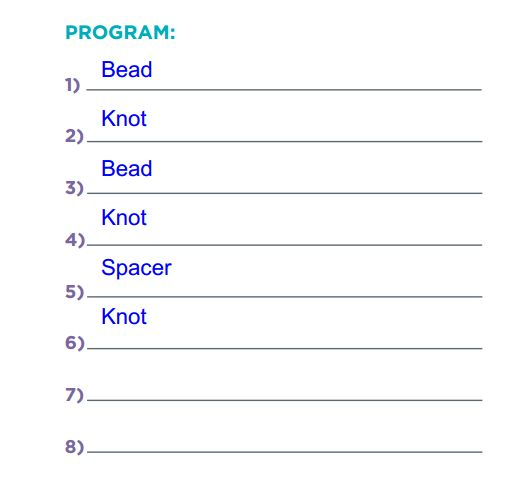
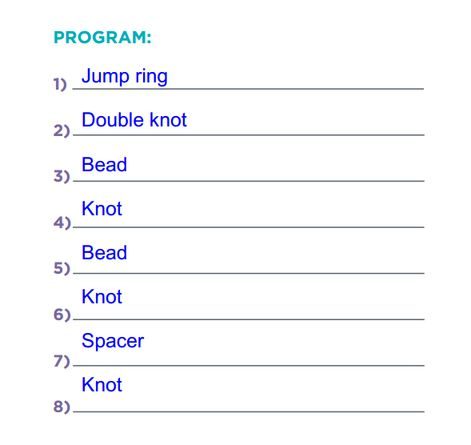
Redo algorithm for suncatcher. The original one is not workable.

diff --git a/code7_stage8.html b/code7_stage8.html
@@ -46,7 +46,7 @@
 <h2>Functions</h2>
 <h3>Gary Dalton</h3>
 <p>
-<h4>8 July 2015</h4>
+<h4>18 July 2015</h4>
 </p>
 
 <a href="https://github.com/gary-dalton/code7/tree/gh-pages">
@@ -57,7 +57,7 @@ Fork on GitHub
 
 <section id="functions" class="level1">
 <h1>Functions</h1>
-<p>Repetitive tasks can be stored in a small group that can be “called” several times, instead of wasting space with lots of copies of the same instruction.</p>
+<p>Repetitive tasks can be stored in a small group that can be &quot;called&quot; several times, instead of wasting space with lots of copies of the same instruction.</p>
 </section>
 <section id="section" class="level1">
 <h1></h1>
@@ -74,6 +74,7 @@ Fork on GitHub
 <section id="materials" class="level1">
 <h1>Materials</h1>
 <ul>
+<li>One jump ring</li>
 <li>One foot of string, thread, or fishing line per person</li>
 <li>2-4 beads per person</li>
 <li>2-4 other accessories (buttons, hoops, spacers) per person</li>
@@ -124,7 +125,16 @@ Fork on GitHub
 <section id="section-2" class="level2">
 <h2></h2>
 <p>In Stage 7, The Artist II, we drew repeating shapes using code blocks</p>
-<p><img src="images/stage8blocks.jpg" alt="" /><img src="images/stage8pattern.jpg" alt="" /></p>
+<table>
+<thead>
+<tr class="header">
+<th style="text-align: left;"><img src="images/stage8blocks.jpg" alt="" /></th>
+<th style="text-align: left;"><img src="images/stage8pattern.jpg" alt="" /></th>
+</tr>
+</thead>
+<tbody>
+</tbody>
+</table>
 </section>
 <section id="section-3" class="level2">
 <h2></h2>
@@ -139,21 +149,18 @@ Fork on GitHub
 <section id="how-did-i-make-this" class="level2">
 <h2>How did I make this?</h2>
 <ol type="1">
-<li>First, I put a bead on the string, then I tied a knot. I put another bead on a string, and tied another knot. Then, I put a spacer on the string and tied another knot.</li>
-<li>After that, I did it all again. I put a bead on the string, then I tied a knot. I put another bead on a string, and tied another knot. Then, I put a spacer on the string and tied another knot.</li>
-<li>Finally, I put on the special charm, and tied one last knot.</li>
+<li>I put the jump ring on the string and tied a double knot.</li>
+<li>I put a bead on the string and tied a knot.</li>
+<li>I put another bead on a string, and tied another knot.</li>
+<li>I put a spacer on the string and tied another knot.</li>
+<li>I repeated steps 2-4.</li>
+<li>Finally, I put on the special charm, and tied one last double knot.</li>
 </ol>
 </section>
 <section id="with-rhythm" class="level2">
 <h2>With rhythm</h2>
 <blockquote>
-<p>&quot;Bead, knot, bead, knot, spacer, knot.</p>
-</blockquote>
-<blockquote>
-<p>Bead, knot, bead, knot, spacer, knot.</p>
-</blockquote>
-<blockquote>
-<p>Special charm, final knot.&quot;</p>
+<p>&quot;Jump ring, double knot.<br /> Bead, knot, bead, knot, spacer, knot.<br /> Bead, knot, bead, knot, spacer, knot.<br /> Special charm, double knot.&quot;</p>
 </blockquote>
 </section>
 <section id="section-4" class="level2">
@@ -186,13 +193,7 @@ Fork on GitHub
 <h2></h2>
 <p>Try to fill in the skills and program to make a working example of the algorithm.</p>
 <blockquote>
-<p>&quot;Bead, knot, bead, knot, spacer, knot.</p>
-</blockquote>
-<blockquote>
-<p>Bead, knot, bead, knot, spacer, knot.</p>
-</blockquote>
-<blockquote>
-<p>Special charm, final knot.&quot;</p>
+<p>&quot;Jump ring, double knot.<br /> Bead, knot, bead, knot, spacer, knot.<br /> Bead, knot, bead, knot, spacer, knot.<br /> Special charm, double knot.&quot;</p>
 </blockquote>
 </section>
 <section id="ok-lets-make-those-suncatchers." class="level2">

diff --git a/code7_stage8.md b/code7_stage8.md
@@ -2,7 +2,7 @@
 title: Code7 - Stage 8
 subtitle: Functions
 author: Gary Dalton
-date: 8 July 2015
+date: 18 July 2015
 theme: beige
 transition: concave
 github:
@@ -15,7 +15,7 @@ pandoc: pandoc -t html5 --standalone --section-divs --template=templatecdn_revea
 
 # Functions
 
-Repetitive tasks can be stored in a small group that can be “called” several times, instead of wasting space with lots of copies of the same instruction.
+Repetitive tasks can be stored in a small group that can be "called" several times, instead of wasting space with lots of copies of the same instruction.
 
 #
 
@@ -28,6 +28,7 @@ Repetitive tasks can be stored in a small group that can be “called” several
 
 # Materials
 
+- One jump ring
 - One foot of string, thread, or fishing line per person
 - 2-4 beads per person
 - 2-4 other accessories (buttons, hoops, spacers) per person
@@ -75,7 +76,8 @@ A placeholder for a value that can change
 
 In Stage 7, The Artist II, we drew repeating shapes using code blocks
 
-![](images/stage8blocks.jpg)![](images/stage8pattern.jpg)
+| ![](images/stage8blocks.jpg) | ![](images/stage8pattern.jpg) |
+| ------------------ | ------------------ |
 
 ##
 
@@ -86,17 +88,19 @@ In Stage 7, The Artist II, we drew repeating shapes using code blocks
 
 ## How did I make this?
 
-1. First, I put a bead on the string, then I tied a knot. I put another bead on a string, and tied another knot. Then, I put a spacer on the string and tied another knot.
-2. After that, I did it all again. I put a bead on the string, then I tied a knot. I put another bead on a string, and tied another knot. Then, I put a spacer on the string and tied another knot.
-3. Finally, I put on the special charm, and tied one last knot.
+1. I put the jump ring on the string and tied a double knot.
+1. I put a bead on the string and tied a knot.
+1. I put another bead on a string, and tied another knot.
+1. I put a spacer on the string and tied another knot.
+1. I repeated steps 2-4.
+1. Finally, I put on the special charm, and tied one last  double knot.
 
 ## With rhythm
 
->"Bead, knot, bead, knot, spacer, knot.
-
->Bead, knot, bead, knot, spacer, knot.
-
->Special charm, final knot."
+>"Jump ring, double knot.<br />
+>Bead, knot, bead, knot, spacer, knot.<br />
+>Bead, knot, bead, knot, spacer, knot.<br />
+>Special charm, double knot."
 
 ##
 
@@ -122,11 +126,10 @@ In Stage 7, The Artist II, we drew repeating shapes using code blocks
 
 Try to fill in the skills and program to make a working example of the algorithm.
 
->"Bead, knot, bead, knot, spacer, knot.
-
->Bead, knot, bead, knot, spacer, knot.
-
->Special charm, final knot."
+>"Jump ring, double knot.<br />
+>Bead, knot, bead, knot, spacer, knot.<br />
+>Bead, knot, bead, knot, spacer, knot.<br />
+>Special charm, double knot."
 
 ## Ok, let's make those suncatchers.
 
